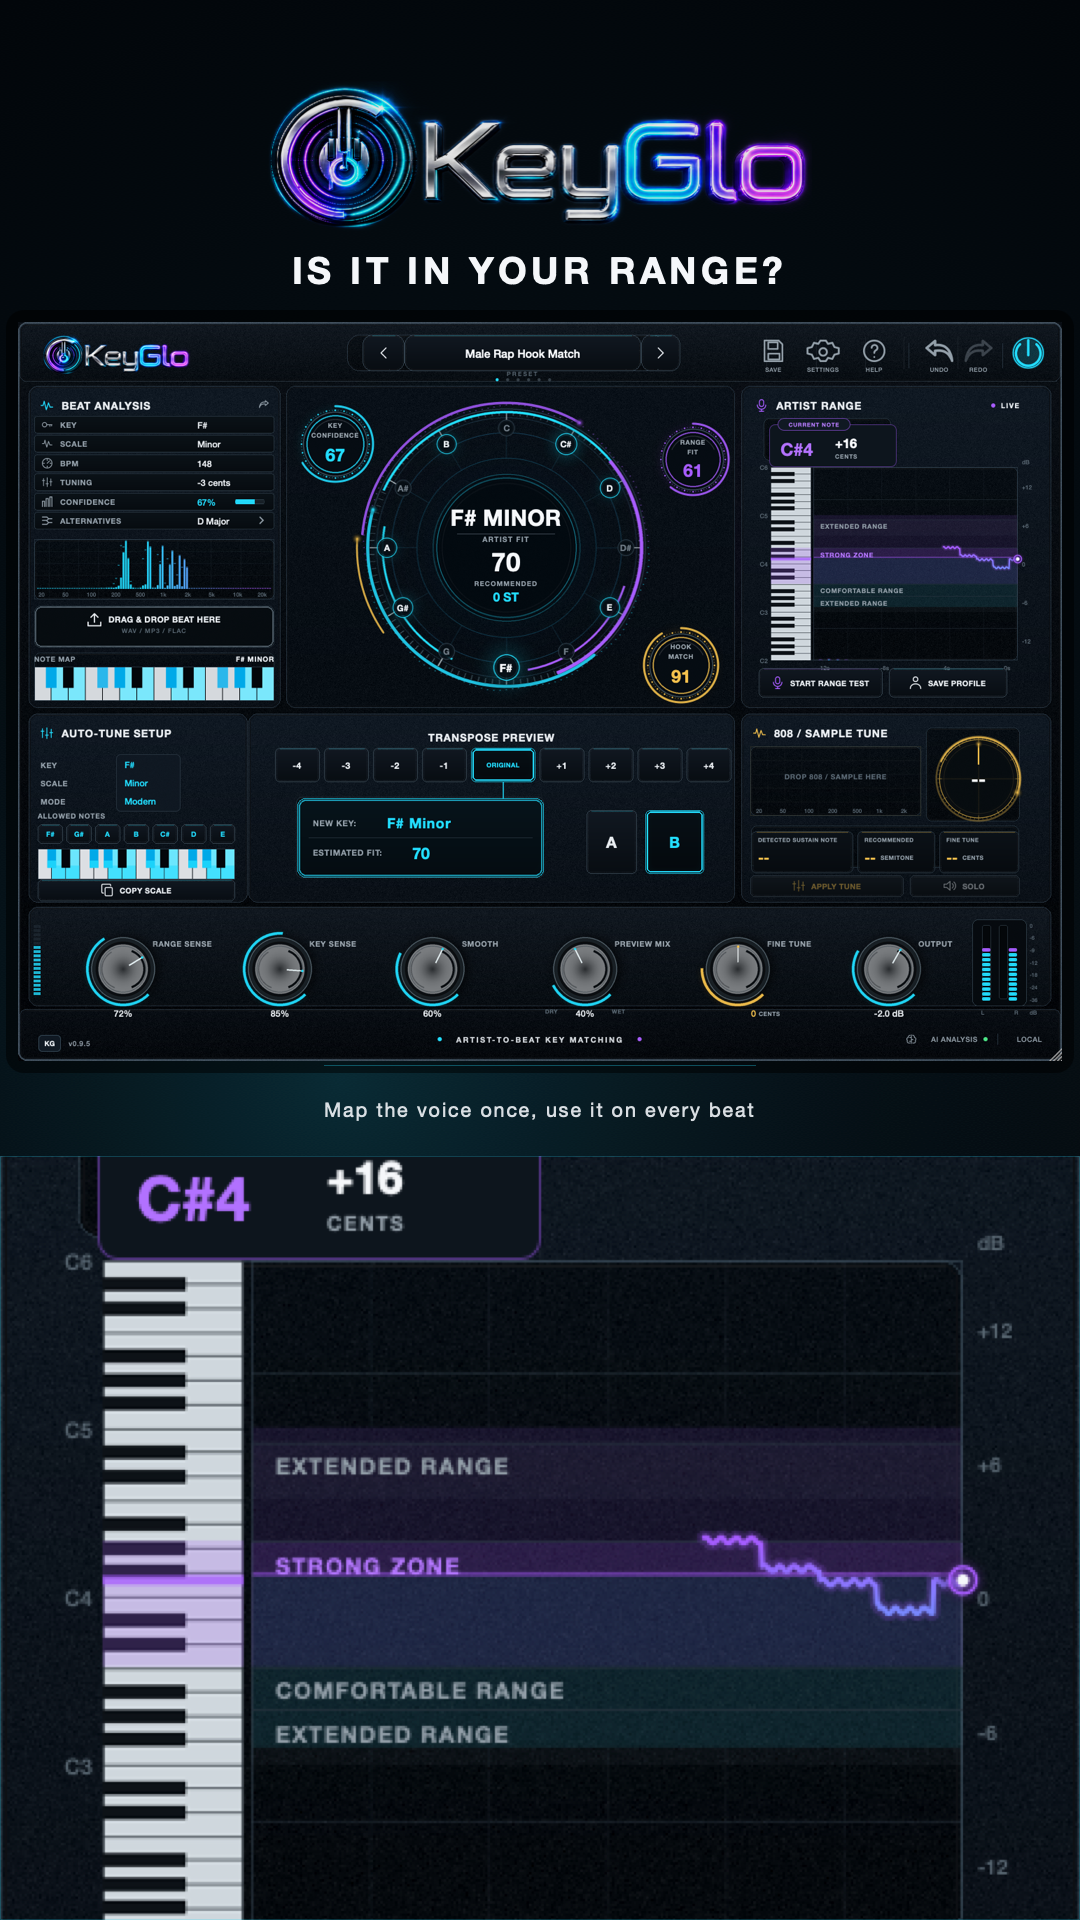
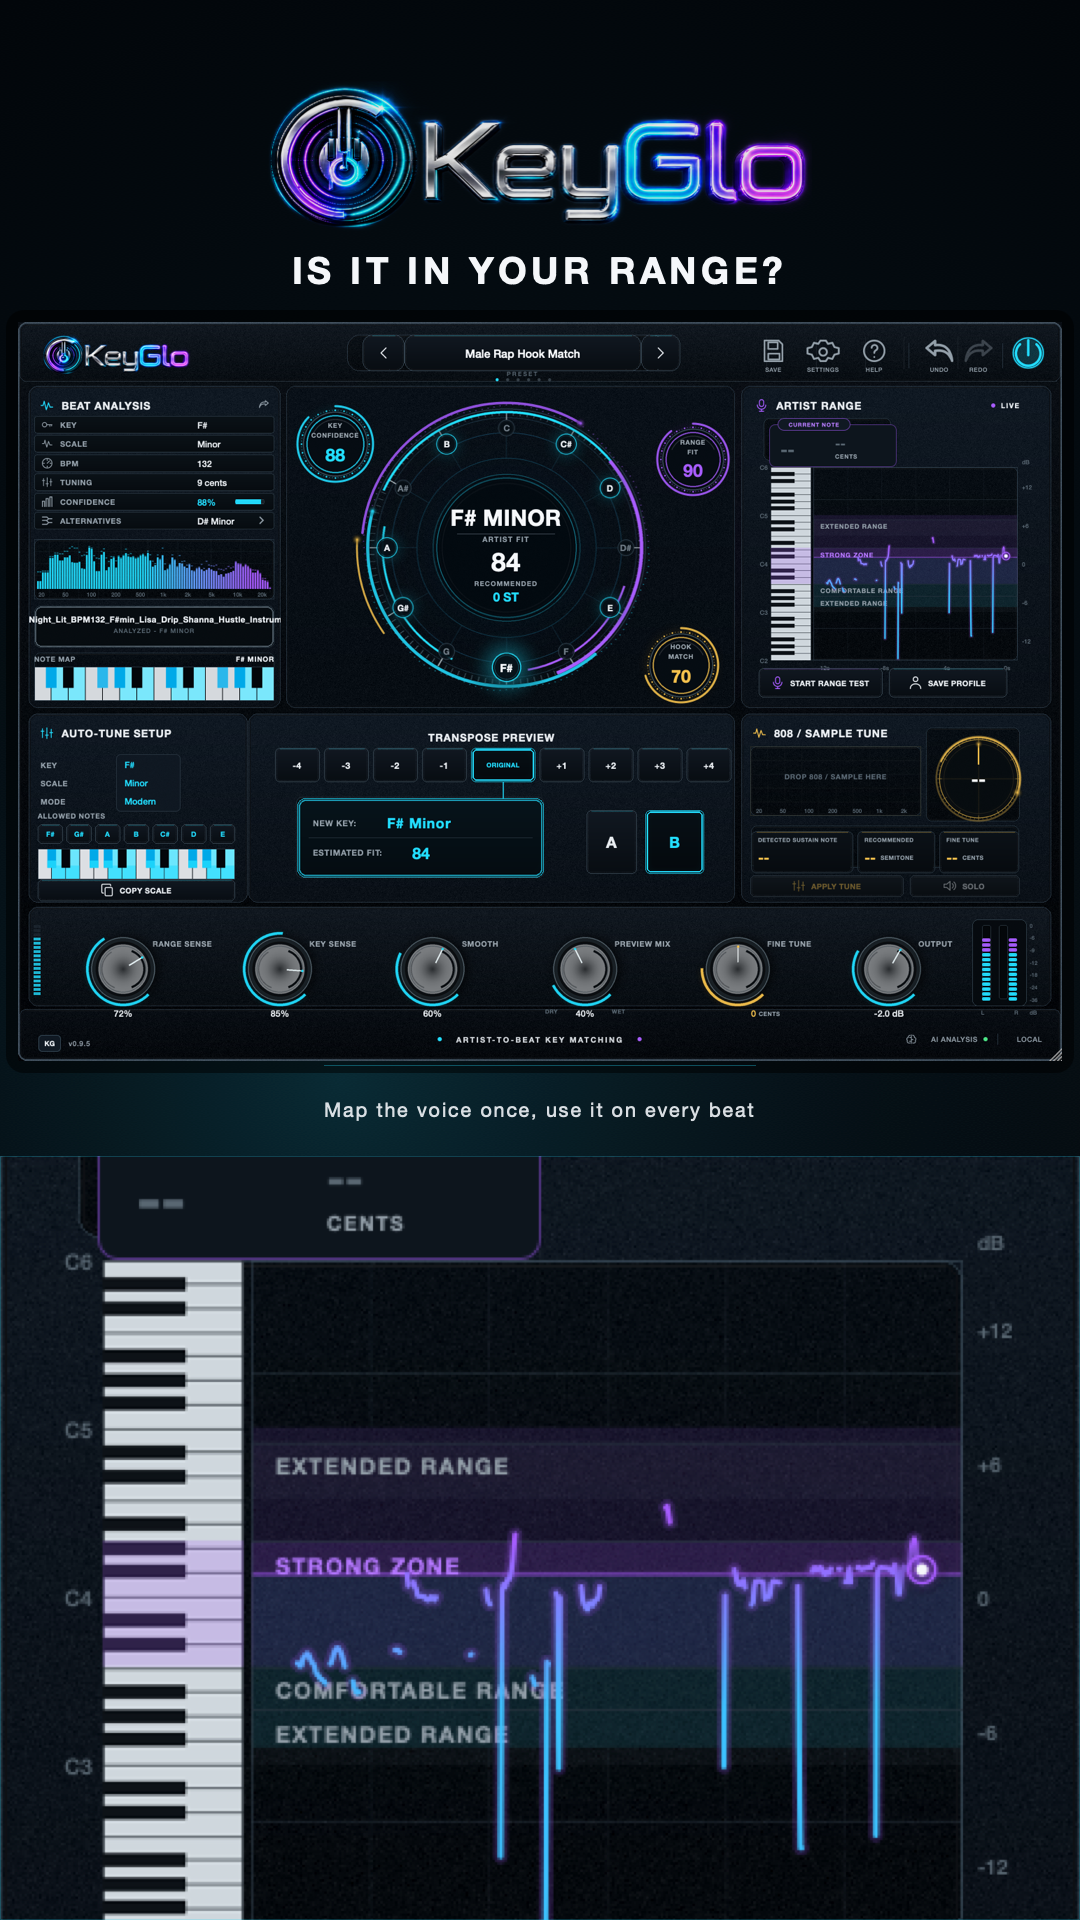
Film: acapella over instrumental, real drop gesture, music from frame one
Driven by how the plugin is actually used: KeyGlo goes on the vocal track
while the beat arrives as a dropped file. The film now mixes the acapella
over the instrumental at 0.55 so the plugin's input is vocal-dominant and
ARTIST RANGE shows real pitch motion, instead of a tracker chasing a bass
line. Verified on camera: G#4 +5 cents, Range Fit 85, Hook Match 88, over
F# Minor / 132 BPM / 88% read from the dropped instrumental.

The drop is the real feature path - new editor hooks call the beat
panel's own fileDragEnter / filesDropped, so the zone lights under the
drag exactly as it does for a user, and the panel genuinely starts empty.

Music plays from the first frame. Keeping the pre-drop panel clean is now
done by holding the automatic live analysis until the drop
(setAutoAnalysisEnabled) rather than starving the plugin of audio, which
had left the opening titles silent.

Adds vocal= to the film tool and VOCAL= to the video/reel targets.

diff --git a/tools/MakeVideo.cpp b/tools/MakeVideo.cpp
@@ -633,6 +633,7 @@ int main (int argc, char** argv)
         // audio path. That is exactly how the first web renders failed.
         juce::StringArray args;
         double bitrateFlag = 0.0;
+        juce::String vocalPath;
         for (int i = 1; i < argc; ++i)
         {
             const juce::String a { argv[i] };
@@ -640,6 +641,8 @@ int main (int argc, char** argv)
                 reelMode = true;
             else if (a.startsWithIgnoreCase ("bitrate="))
                 bitrateFlag = a.fromFirstOccurrenceOf ("=", false, false).getDoubleValue();
+            else if (a.startsWithIgnoreCase ("vocal="))
+                vocalPath = a.fromFirstOccurrenceOf ("=", false, false);
             else if (a.isNotEmpty())
                 args.add (a);
         }
@@ -674,6 +677,23 @@ int main (int argc, char** argv)
             return 1;
         }
 
+        // The acapella. Mixed OVER the instrumental so the plugin's input is
+        // vocal-dominant: that is what a producer actually inserts KeyGlo on
+        // (the vocal track) while the beat comes in as a dropped file, and it
+        // is what gives ARTIST RANGE real pitch motion instead of a pitch
+        // tracker chasing a bass line.
+        std::unique_ptr<juce::AudioFormatReader> vocalReader;
+        if (vocalPath.isNotEmpty())
+        {
+            const juce::File vf { vocalPath };
+            if (vf.existsAsFile())
+                vocalReader.reset (formats.createReaderFor (vf));
+            if (vocalReader == nullptr)
+                std::printf ("could not read vocal: %s\n", vocalPath.toRawUTF8());
+            else
+                std::printf ("vocal: %s\n", vf.getFileName().toRawUTF8());
+        }
+
         const bool haveMusic = reader != nullptr;
         const double sr = haveMusic ? reader->sampleRate : 48000.0;
         const int blockSize = (int) std::llround (sr / fps);
@@ -700,19 +720,11 @@ int main (int argc, char** argv)
         // must show KeyGlo reading the music the viewer is hearing, not a
         // synthetic stand-in with a different key.
         const juce::File beatForAnalysis = haveMusic ? sourceAudio : fixtures.beat;
-        processor.analyseFileAsync (beatForAnalysis);
-        for (int i = 0; i < 400; ++i)
-        {
-            auto snap = processor.getDisplayModel().get();
-            if (snap->hasBeatResult && ! snap->analyzing)
-                break;
-            juce::Thread::sleep (25);
-        }
-        {
-            auto snap = processor.getDisplayModel().get();
-            std::printf ("beat analysed: %s %s, %.0f BPM\n",
-                         snap->key.toRawUTF8(), snap->scale.toRawUTF8(), snap->bpm);
-        }
+
+        // Deliberately NOT analysed here. The film performs the drop on
+        // camera through the panel's real drag-and-drop path, so the beat
+        // panel starts genuinely empty and the reveal is the feature working
+        // rather than a finished result fading in.
 
         // The profile is NOT set here: the film installs it when the
         // profiling act runs, so the artist panel is genuinely empty before
@@ -756,16 +768,29 @@ int main (int argc, char** argv)
 
             { 11.0, 21.0, "Drop the beat",
               "Key, scale, tempo and tuning - read from the audio",
-              [&beatForAnalysis] (KeyGloProcessor& p, KeyGloEditor&, double progress)
+              [&beatForAnalysis] (KeyGloProcessor& p, KeyGloEditor& e, double progress)
               {
-                  // Re-analysing on screen shows the ANALYZING state resolve
-                  // into a real verdict rather than cutting to a finished one.
-                  if (progress < 0.02)
-                      p.analyseFileAsync (beatForAnalysis);
+                  // The real gesture: the zone lights under the drag, then
+                  // the drop starts the analysis and ANALYZING resolves into
+                  // the verdict on screen.
+                  static bool dropped = false;
+                  if (progress < 0.04)
+                  {
+                      dropped = false;
+                      e.hoverBeatDrop (true);
+                  }
+                  else if (progress >= 0.18 && ! dropped)
+                  {
+                      dropped = true;
+                      e.hoverBeatDrop (false);
+                      e.dropBeatFile (beatForAnalysis);
+                      p.setAutoAnalysisEnabled (true);
+                  }
               } },
 
-            { 21.0, 29.0, "No reliable key beats a wrong one",
-              "Sparse or tuneless material says so instead of guessing", nullptr },
+            { 21.0, 29.0, "Every note that fits",
+              "The note map and the allowed notes light up in the detected key",
+              nullptr },
 
             { 29.0, 41.0, "Profile the artist",
               "Four sung prompts map comfortable, strong and extended range",
@@ -810,10 +835,21 @@ int main (int argc, char** argv)
 
             { 3.2, 10.5, "What key is this beat?",
               "Drop it in. Read it in seconds.",
-              [&beatForAnalysis] (KeyGloProcessor& p, KeyGloEditor&, double progress)
+              [&beatForAnalysis] (KeyGloProcessor& p, KeyGloEditor& e, double progress)
               {
-                  if (progress < 0.03)
-                      p.analyseFileAsync (beatForAnalysis);
+                  static bool reelDropped = false;
+                  if (progress < 0.06)
+                  {
+                      reelDropped = false;
+                      e.hoverBeatDrop (true);
+                  }
+                  else if (progress >= 0.22 && ! reelDropped)
+                  {
+                      reelDropped = true;
+                      e.hoverBeatDrop (false);
+                      e.dropBeatFile (beatForAnalysis);
+                      p.setAutoAnalysisEnabled (true);
+                  }
               },
               { 15.0f, 91.0f, 360.0f, 460.0f } },          // beat panel
 
@@ -908,6 +944,13 @@ int main (int argc, char** argv)
         [writer startSessionAtSourceTime: kCMTimeZero];
 
         // --- render ------------------------------------------------------------
+        // Music plays from the first frame. The beat panel still stays empty
+        // until the drop because the automatic live analysis is held off
+        // until then (re-enabled by the drop act), rather than by starving
+        // the plugin of audio.
+        processor.setAutoAnalysisEnabled (false);
+        juce::AudioBuffer<float> vocalMix (2, blockSize);
+
         FilmAudio filmAudio (fixtures, sr);
         // Acts whose input is the sung hook / the 808 rather than the beat.
         if (reelMode) filmAudio.setActBounds (10.5, 26.0, 33.5, 42.0);
@@ -966,6 +1009,23 @@ int main (int argc, char** argv)
                 if (readPos + blockSize >= reader->lengthInSamples)
                     readPos = 0;
                 reader->read (&audio, 0, blockSize, readPos, true, true);
+
+                // Acapella over the instrumental. The vocal sits on top and
+                // the beat is pulled down, so the pitch tracker follows the
+                // voice (ARTIST RANGE shows real vocal motion) while the
+                // soundtrack is still the song.
+                if (vocalReader != nullptr)
+                {
+                    audio.applyGain (0.55f);
+                    vocalMix.setSize (audio.getNumChannels(), blockSize, false, false, true);
+                    if (readPos + blockSize >= vocalReader->lengthInSamples)
+                        vocalMix.clear();
+                    else
+                        vocalReader->read (&vocalMix, 0, blockSize, readPos, true, true);
+                    for (int ch = 0; ch < audio.getNumChannels(); ++ch)
+                        audio.addFrom (ch, 0, vocalMix, juce::jmin (ch, vocalMix.getNumChannels() - 1),
+                                       0, blockSize, 1.0f);
+                }
                 readPos += blockSize;
             }
             else

diff --git a/Source/analysis/AnalysisCoordinator.h b/Source/analysis/AnalysisCoordinator.h
@@ -58,6 +58,12 @@ public:
 
     bool isBusy() const                 { return busy.load(); }
 
+    // Automatic re-analysis of the live ring. On by default; the demo film
+    // holds it off until the beat is dropped on camera so that music can play
+    // under the opening titles without a live verdict appearing before the
+    // drop. A dropped FILE result already suppresses it permanently.
+    void setAutoAnalysisEnabled (bool shouldRun)  { autoAnalysis.store (shouldRun); }
+
     // --- 808 / sample side (milestone 4) ----------------------------------
     void setPreviewPlayer (SamplePreviewPlayer* p)   { player = p; }
 
@@ -171,7 +177,8 @@ private:
                 const auto written = ring.samplesWritten();
                 const auto now = juce::Time::currentTimeMillis();
                 const bool freshAudio = written > lastSeen + (juce::int64) (ring.sampleRate() * 2.0);
-                if (! fileResultStands && freshAudio && now - lastAutoAnalyse > 3000
+                if (autoAnalysis.load() && ! fileResultStands && freshAudio
+                     && now - lastAutoAnalyse > 3000
                      && written > (juce::int64) (ring.sampleRate() * 6.0))
                 {
                     lastAutoAnalyse = now;
@@ -648,6 +655,7 @@ private:
     juce::File pendingFile, pendingSample;
     bool fileRequested = false, sampleRequested = false;
     std::atomic<bool> ringRequested { false }, applyRequested { false };
+    std::atomic<bool> autoAnalysis { true };
 
     SamplePreviewPlayer* player = nullptr;
     std::vector<float> sampleAudio;

diff --git a/Source/PluginEditor.cpp b/Source/PluginEditor.cpp
@@ -244,6 +244,21 @@ bool KeyGloEditor::keyPressed (const juce::KeyPress& key)
     return false;
 }
 
+void KeyGloEditor::hoverBeatDrop (bool hovering)
+{
+    // The same calls a real drag makes - no separate "demo" appearance that
+    // could drift from what a user actually sees.
+    if (hovering)
+        content->beat.fileDragEnter ({}, 0, 0);
+    else
+        content->beat.fileDragExit ({});
+}
+
+void KeyGloEditor::dropBeatFile (const juce::File& file)
+{
+    content->beat.filesDropped ({ file.getFullPathName() }, 0, 0);
+}
+
 void KeyGloEditor::refreshDisplays()
 {
     headlessRefreshMode() = true;

diff --git a/Source/PluginEditor.h b/Source/PluginEditor.h
@@ -39,6 +39,13 @@ public:
     // Drives every display timer once, synchronously - used by make uishot.
     void refreshDisplays();
 
+    // Drives the REAL drag-and-drop path on the beat panel, so the demo film
+    // shows the feature working rather than a result appearing from nowhere:
+    // hoverBeatDrop() lights the drop zone exactly as a dragged file does,
+    // dropBeatFile() performs the drop and starts the analysis.
+    void hoverBeatDrop (bool hovering);
+    void dropBeatFile (const juce::File& file);
+
 private:
     class ContentComponent;
     class DebugOverlay;

diff --git a/Source/PluginProcessor.h b/Source/PluginProcessor.h
@@ -77,6 +77,7 @@ public:
     void analyseFileAsync (const juce::File& f)            { coordinator->analyseFileAsync (f); }
     void analyseCaptureNow()                               { coordinator->analyseRingNow(); }
     bool isAnalysisBusy() const                            { return coordinator->isBusy(); }
+    void setAutoAnalysisEnabled (bool e)                   { coordinator->setAutoAnalysisEnabled (e); }
 
     // Presets + undo (product milestone). Message thread only.
     PresetManager& getPresets()                            { return *presets; }
